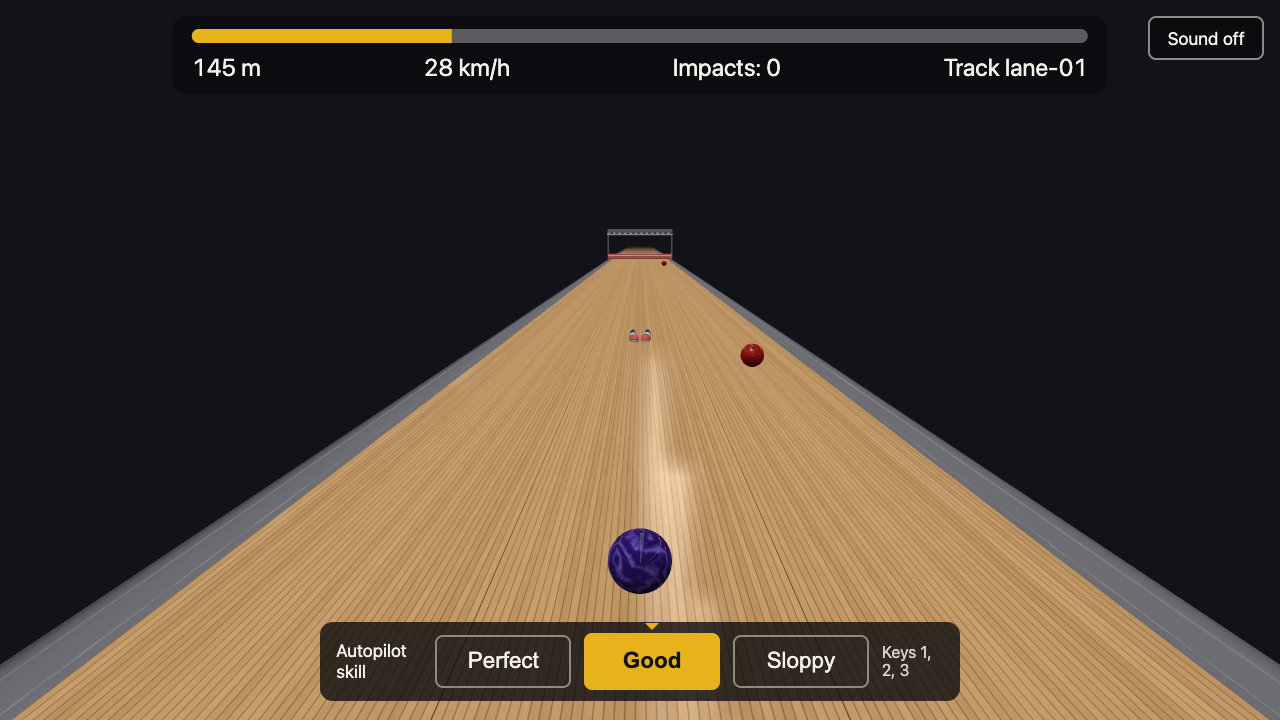
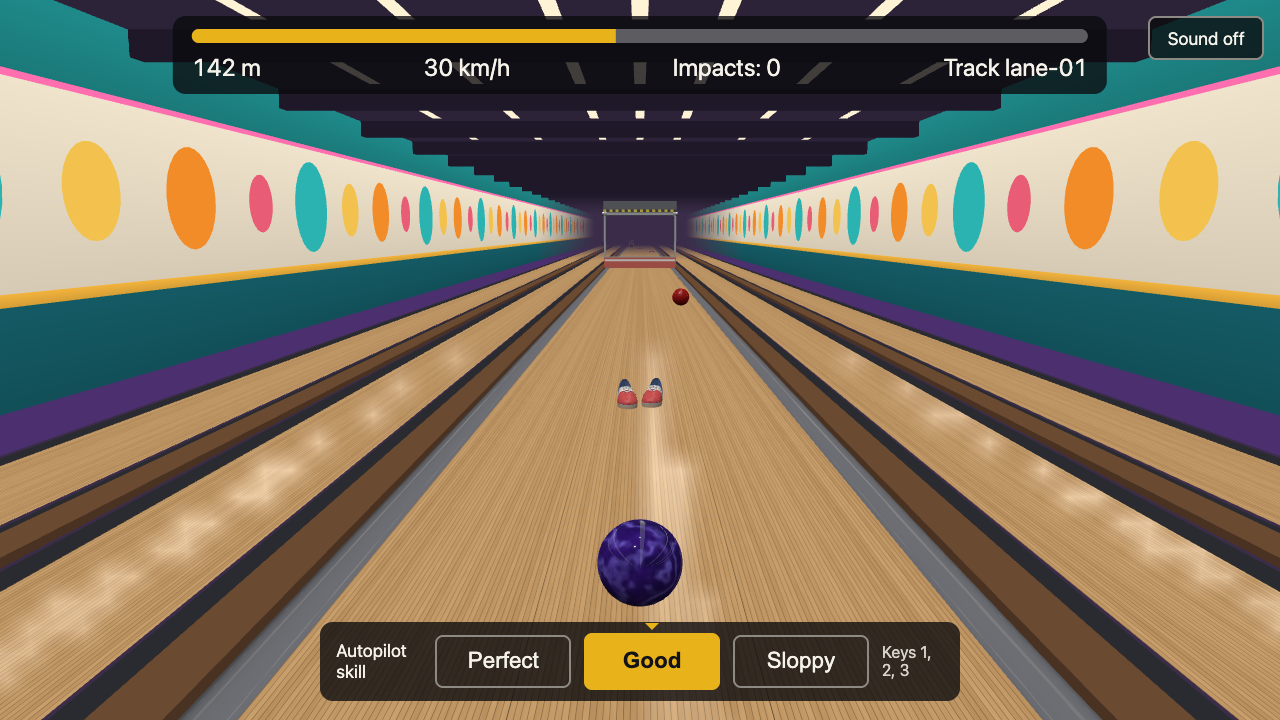
Close the second round of requests: rounds, the skills record, README and changelog
The pages changed by the twice-life-size props, the alley, the music and the impact cost are
built again with their rounds; the skills record keeps the deck sweep and the three campaigns
that led to one-sided aim errors. The README describes the alley and shows a new shot; review.md
says where to resume and what waits for a human.

diff --git a/game/src/config/render.ts b/game/src/config/render.ts
@@ -2,8 +2,9 @@
  * Render budgets checked by the headless gate (wiki/pilot/headless-runs.md, rule 3).
  *
  * Active meshes: the peak measured on the five committed tracks was 174 (500 m lane,
- * wiki/records/pilot-vs-blind-20261027.md; 300 m lane, wiki/records/pilot-vs-blind-300m-20261027.md);
- * the budget leaves ≈ 40 % headroom over it, so a new
+ * wiki/records/pilot-vs-blind-20261027.md; 300 m lane, wiki/records/pilot-vs-blind-300m-20261027.md),
+ * 190 with the alley drawn (wiki/records/skills-20261027.md); the budget leaves ≈ 30 % headroom
+ * over it, so a new
  * obstacle model or a leak of lane segments fails the gate while ordinary variation does not.
  */
 export const ACTIVE_MESH_BUDGET = 250;

diff --git a/wiki/index.md b/wiki/index.md
@@ -11,22 +11,22 @@ once the script exists.
 4. [method/stats.md](method/stats.md) — Stats — numbers about how the demo was built · `built`
 5. [storybook/catalog.md](storybook/catalog.md) — Storybook catalogue — one story per model · `built`
 6. [tools/shot.md](tools/shot.md) — Shot tool — how an agent looks at its own work · `built`
-7. [models/ball.md](models/ball.md) — Ball — the bowling ball the autopilot rolls · `planned`
-8. [models/lane.md](models/lane.md) — Lane — 300 m of maple, three travel lanes, gutters and pin deck · `planned`
-9. [models/obstacles/rental-shoes.md](models/obstacles/rental-shoes.md) — Rental shoes — a pair of two-tone bowling shoes in one travel lane · `planned`
+7. [models/ball.md](models/ball.md) — Ball — the bowling ball the autopilot rolls · `built`
+8. [models/lane.md](models/lane.md) — Lane — 300 m of maple, three travel lanes, gutters and pin deck · `built`
+9. [models/obstacles/rental-shoes.md](models/obstacles/rental-shoes.md) — Rental shoes — a pair of two-tone bowling shoes in one travel lane · `built`
 10. [models/obstacles/returning-ball.md](models/obstacles/returning-ball.md) — Returning ball — a house ball rolling back up the lane · `built`
-11. [models/obstacles/sweep-bar.md](models/obstacles/sweep-bar.md) — Sweep bar — the pinsetter's rake across all three travel lanes · `planned`
+11. [models/obstacles/sweep-bar.md](models/obstacles/sweep-bar.md) — Sweep bar — the pinsetter's rake across all three travel lanes · `built`
 12. [models/obstacles/widening-gutter.md](models/obstacles/widening-gutter.md) — Widening gutter — the gutter eats one travel lane for a stretch · `built`
-13. [models/pins.md](models/pins.md) — Pins — the ten regulation pins · `planned`
+13. [models/pins.md](models/pins.md) — Pins — the ten regulation pins · `built`
 14. [models/obstacles/stray-pins.md](models/obstacles/stray-pins.md) — Stray pins — a group of pins left standing in one travel lane · `built`
 15. [track/track-format.md](track/track-format.md) — Track format — the lane as a JSON file, its bake and its gate · `built`
-16. [game/run.md](game/run.md) — Run — the ball's 300 m, from foul line to pin deck · `planned`
-17. [game/camera.md](game/camera.md) — Camera — chase, impact view and slow motion · `planned`
-18. [game/impacts.md](game/impacts.md) — Impacts — what an obstacle costs · `planned`
-19. [game/pins.md](game/pins.md) — Pins physics — the strike, and the score · `planned`
-20. [pilot/autopilot.md](pilot/autopilot.md) — Autopilot — the only player, and its three skill profiles · `planned`
+16. [game/run.md](game/run.md) — Run — the ball's 300 m, from foul line to pin deck · `built`
+17. [game/camera.md](game/camera.md) — Camera — chase, impact view and slow motion · `built`
+18. [game/impacts.md](game/impacts.md) — Impacts — what an obstacle costs · `built`
+19. [game/pins.md](game/pins.md) — Pins physics — the strike, and the score · `built`
+20. [pilot/autopilot.md](pilot/autopilot.md) — Autopilot — the only player, and its three skill profiles · `built`
 21. [game/hud.md](game/hud.md) — HUD — run information, skill buttons, end screen · `built`
-22. [audio/sounds.md](audio/sounds.md) — Sounds — generated from numbers, played by the audio engine · `planned`
+22. [audio/sounds.md](audio/sounds.md) — Sounds — generated from numbers, played by the audio engine · `built`
 23. [pilot/headless-runs.md](pilot/headless-runs.md) — Headless runs — the tester that never gets tired · `built`
 24. [release/open-source.md](release/open-source.md) — Open-source release — ready to hand to the audience · `built`
 
@@ -45,3 +45,4 @@ once the script exists.
 - [records/deck-tests-300m-20261027.md](records/deck-tests-300m-20261027.md) — Deck tests on the 300 m lane — pocket and off-pocket pins down in Havok
 - [records/pilot-vs-blind-20261027.md](records/pilot-vs-blind-20261027.md) — Pilot vs blind — 5 tracks, three skills and the blind baseline in the browser
 - [records/pilot-vs-blind-300m-20261027.md](records/pilot-vs-blind-300m-20261027.md) — Pilot vs blind on the 300 m lane — three skills and the blind baseline in the browser
+- [records/skills-20261027.md](records/skills-20261027.md) — Skills that show — what an impact costs at twice life size, and three campaigns to tune it

diff --git a/wiki/records/skills-20261027.md b/wiki/records/skills-20261027.md
@@ -1,0 +1,72 @@
+---
+title: Skills that show — what an impact costs at twice life size, and three campaigns to tune it
+type: record
+verified: 2026-10-27
+---
+
+# Skills that show — 2026-10-27
+
+> Boundary: the measurements behind the human's request that the skills differ visibly
+> ([impacts](../game/impacts.md) rule 2, [autopilot](../pilot/autopilot.md) rule 5,
+> [run](../game/run.md) rule 3), with the props at twice life size. NOT covered: the deck criteria
+> themselves (their tests are in [pins physics](../game/pins.md)); the earlier campaign on the
+> 300 m lane is [pilot vs blind, 300 m](pilot-vs-blind-300m-20261027.md).
+
+## What was measured, where
+
+- Code: commit `3467546` («Make the skills show…»), on top of the twice-life-size props
+  (`726b79b`) and the alley (`1ac9d70`).
+- Environment: Vitest 3.2.7 with Babylon.js 9.32.0 `NullEngine` and Havok 1.3.14 WASM in Node
+  26.0.0 for the deck sweep; headless Chromium 156 (Playwright 1.64.1, WebGL on SwiftShader) on the
+  Vite 7.3.7 dev server for the campaigns; macOS 27.0.1, Apple arm64.
+- Deck sweep: `simulateDeck` (the deck tests' harness) with the ball handed over at the pocket plus
+  an offset `d`, rolling, no other error; a throw-away test, not committed.
+- Campaigns: `npm run pilot -- --tracks all --skill <s> --runs 3` for perfect, good and sloppy, and
+  `--blind`; three seeds per track (the track's, 1 and 2), `speedup=60`. 60 runs each.
+
+## Results
+
+**Where a ball strikes.** Pins down against the offset from the pocket at 12 m/s (left negative):
+
+| d (m) | −1.6 | −1.2 | −0.8 | −0.6 | −0.4 | −0.2 | 0 | +0.2 | +0.4 | +0.6 | +0.8 | +1.0 | +1.2 |
+|---|---|---|---|---|---|---|---|---|---|---|---|---|---|
+| pins | 0 | 5 | 3 | 7 | 9 | 10 | 10 | 8 | 6 | 3 | 8 | 1 | 0 |
+
+At 9 m/s the curve is the same within one pin. A twice-life-size ball and deck strike anywhere
+from 0.3 m left to 0.1 m right of the pocket; speed hardly matters.
+
+**Campaign 1** (loss 0.4, recovery 0.5 m/s², aim ± 0.24 m random side, ignore good 0.25 / sloppy
+0.55): pins perfect 10.0, good 9.4, sloppy 8.7 — sloppy still struck 8 of 15. **Campaign 2** (aim
+± 0.5 m random side, sloppy 0.70): good 8.7, sloppy 8.3 with 2.7 impacts a run and 10 strikes in
+15 — errors of a random side cancel out. **Campaign 3**, the values now in the spec (each impact
+pushes 0.3–0.6 m, always to the side drawn once per run). Impacts / pins down, three runs each:
+
+| Track | perfect | good | sloppy | blind |
+|---|---|---|---|---|
+| lane-01 | 0/10 · 0/10 · 0/10 | 1/3 · 1/6 · 1/3 | 3/0 · 3/0 · 3/0 | 1/6 · 3/0 · 6/0 |
+| lane-02 | 0/10 · 0/10 · 0/10 | 2/5 · 1/7 · 2/5 | 3/1 · 3/1 · 4/0 | 6/0 · 5/0 · 7/0 |
+| lane-03 | 0/10 · 0/10 · 0/10 | 1/9 · 1/9 · 0/10 | 2/3 · 2/3 · 2/3 | 3/0 · 4/0 · 4/0 |
+| lane-04 | 0/10 · 0/10 · 0/10 | 0/10 · 1/10 · 1/7 | 1/8 · 2/3 · 2/6 | 6/0 · 3/0 · 5/0 |
+| lane-05 | 0/10 · 0/10 · 0/10 | 0/10 · 1/10 · 2/6 | 4/0 · 2/9 · 4/0 | 4/0 · 1/9 · 2/10 |
+| **average** | **0.0 / 10.0** | **1.0 / 7.3** | **2.7 / 2.5** | **4.0 / 1.7** |
+
+- Strikes: perfect 15 of 15, good 5, sloppy 0, blind 1. Zero pins: sloppy 6, blind 12.
+- Speed at the hand-over: perfect 12.0, good 11.9, sloppy 11.2, blind 9.9 m/s (averages).
+- Rolling time: perfect 40.0 s, good 40.0–43.5 s, sloppy 42.5–48.9 s, blind 41.5–55.3 s.
+- All 60 runs reached the result, 0 console errors; browser and `simulateRun` agree on impacts in
+  45 of 45 pilot runs. Peak active meshes 190 (budget 250), with the alley drawn.
+
+## Reading
+
+The three skills now end far apart — a strike, a handful of pins, almost nothing — and the run
+itself shows why: one impact against two or three, a slower ball, a longer run. The lever was not
+the size of the aim error but its direction: random-side errors cancel, so a sloppy run struck as
+often as a good one until every impact of a run pushed the same way. Sloppy is now close to the
+blind baseline in pins (2.5 against 1.7) while hitting far fewer obstacles (2.7 against 4.0); a
+human may find it too harsh.
+
+## Scope
+
+Three seeds per track, one machine, one software renderer (frame times are not meaningful here).
+The aim side is drawn from the track seed, so every run of a track misses to the same side. Not
+tried: other speeds at the deck, entry angles, real GPUs.

diff --git a/wiki/game/impacts.md b/wiki/game/impacts.md
@@ -1,7 +1,7 @@
 ---
 title: Impacts — what an obstacle costs
 type: spec
-status: planned
+status: built
 depends_on: [game/run.md, models/obstacles/stray-pins.md, models/obstacles/returning-ball.md, models/obstacles/rental-shoes.md, models/obstacles/sweep-bar.md, models/obstacles/widening-gutter.md]
 canonical: [game/src/config/impacts.ts, game/src/domain/impacts/, game/src/domain/simulation.ts, game/src/scene/views/knock-away.ts, game/src/scene/views/obstacle-view.ts, game/src/scene/physics/]
 verified: 2026-10-27
@@ -28,9 +28,12 @@ pins, because it costs speed and aim.
    - speed is multiplied by `1 − IMPACT_SPEED_LOSS` (0.4), then recovers at the run's `ACCEL_MPS2`
      (0.5 m/s², [run](run.md)), slowly enough that an impact in the last ≈ 100 m still reaches the
      pins slower;
-   - the aim error grows by a seeded uniform value in ±`IMPACT_AIM_ERROR_M` (0.24 m: 0.12 m at
-     regulation size, the distance that moves a pocket hit to the Brooklyn side or the split zone,
-     × `PROP_SCALE`), applied to the ball's `x` when it reaches the pin deck;
+   - the aim error grows by a seeded value between `IMPACT_AIM_ERROR_MIN_M` and `IMPACT_AIM_ERROR_M`
+     (0.3–0.6 m: 0.15–0.3 m at regulation size × `PROP_SCALE`), always to the same side within a
+     run (the side drawn once from the track seed), so impacts add up instead of cancelling; it is
+     applied to the ball's `x` when it reaches the pin deck. At this scale a ball strikes from
+     0.3 m left to 0.1 m right of the pocket ([skills record](../records/skills-20261027.md)), so one
+     impact leaves a split or a few pins, two or three leave little or a gutter;
    - the impact count grows by one, and an impact event is emitted (for the scene and the audio).
 3. **Widening gutter:** a ball inside its lane and range counts one impact and is steered to the
    nearest free adjacent lane by a forced lane change.
@@ -80,6 +83,16 @@ pins, because it costs speed and aim.
   jumpable, but rule 1 only compared heights. Now `JUMPABLE_KINDS` (`config/impacts.ts`: rental
   shoes and sweep bar) decides: any other obstacle is hit at any height. New unit test; perfect
   still has 0 impacts on every track.
+- 2026-10-27 · round 4 · The human asked that the skills differ visibly and authorised rewriting
+  criterion 2. Speed loss 0.25 → 0.4, recovery at the run's 0.5 m/s². The aim error took three
+  campaigns ([skills record](../records/skills-20261027.md)): ± 0.24 m and then ± 0.5 m, of a random
+  side each time, changed little — sloppy still struck 10 runs in 15, because errors of opposite
+  sides cancel. A deck sweep showed why the size alone could not do it: at twice life size the ball
+  strikes anywhere from 0.3 m left to 0.1 m right of the pocket. Now each impact pushes 0.3–0.6 m
+  to the side drawn once per run (`aimSideOf`), so impacts add up: perfect 10 pins, good 7.3,
+  sloppy 2.5, blind 1.7 over 60 browser runs. Unit tests: criterion 2 as rewritten (12 → 7.2 m/s,
+  +0.5 m/s in one second, back to the target), the same side and bounds for every impact of a run,
+  criterion 3 unchanged. Left for the human: sloppy is close to blind in pins.
 
 ## Canonical files
 

diff --git a/wiki/models/lane.md b/wiki/models/lane.md
@@ -1,9 +1,9 @@
 ---
 title: Lane — 300 m of maple, three travel lanes, gutters and pin deck
 type: spec
-status: planned
+status: built
 depends_on: [storybook/catalog.md, tools/shot.md]
-canonical: [models/src/measures/lane.ts, models/src/lane/, storybook/src/stories/lane-segment.stories.tsx, storybook/src/stories/pin-deck.stories.tsx, storybook/src/scenes/pin-deck-scene.ts]
+canonical: [models/src/measures/lane.ts, models/src/measures/alley.ts, models/src/lane/, models/src/alley/, storybook/src/stories/alley-segment.stories.tsx, storybook/src/stories/lane-segment.stories.tsx, storybook/src/stories/pin-deck.stories.tsx, storybook/src/scenes/pin-deck-scene.ts]
 verified: 2026-10-27
 ---
 
@@ -88,6 +88,20 @@ to render for its whole length.
   that says it; the scene now draws 15 segments, the last with the regulation markings ending at the
   head pin. Unit tests unchanged and green; the 300 m campaign
   ([record](../records/pilot-vs-blind-300m-20261027.md)) ran on it.
+- 2026-10-27 · round 4 · Props twice life size: the deck's margins, pit, wall and spotlight are
+  sized for the pins, × `PROP_SCALE`; the lane itself is unchanged. Rule 6, the alley:
+  `createAlleySegment` (`models/src/alley/`, measures in `measures/alley.ts`) builds a 20 m segment
+  in two meshes — the four neighbouring lanes' boards with the lane's material (one lane's third of
+  the board texture each), and a single unlit vertex-coloured mesh for cappings, neighbouring
+  gutters, purple carpet, teal-and-cream walls with orange, pink, teal and mustard discs, a pink
+  neon line, the ceiling with a beam every 5 m and a warm light strip over every lane. The scene
+  recycles it with the lane segments (`segment-window.ts`, shared by both views), one segment past
+  the head pin; the masking wall now spans the room and reaches the ceiling. Shots: at 140 m the
+  first try showed the neighbouring boards black — their quads faced down; winding flipped. At 0 m,
+  140 m and 295 m the frame has no black left: walls, ceiling, the far end fades into purple haze.
+  Story `models-alley-segment` reaches ready; unit tests: wall to wall, floor to ceiling, two
+  meshes, instancing shares geometry. Rule 6 has no acceptance criterion yet: a proposal is in
+  [review](../review.md) «To judge».
 
 ## Canonical files
 

diff --git a/wiki/pilot/autopilot.md b/wiki/pilot/autopilot.md
@@ -1,7 +1,7 @@
 ---
 title: Autopilot — the only player, and its three skill profiles
 type: spec
-status: planned
+status: built
 depends_on: [game/impacts.md, game/pins.md]
 canonical: [game/src/config/pilot.ts, game/src/pilot/, game/src/domain/deck/hand-off.ts]
 verified: 2026-10-27
@@ -45,10 +45,10 @@ be lowered on stage, so the audience sees impacts turn into fewer pins.
    |---|---|---|
    | `perfect` | 1.0 s | 0 |
    | `good` | 0.6 s | 0.25 |
-   | `sloppy` | 0.35 s | 0.55 |
+   | `sloppy` | 0.35 s | 0.70 |
 
    The chances to ignore were 0.10 and 0.30; a human asked on 2026-10-27 that the skills differ
-   visibly, so `good` now hits about one obstacle in four and `sloppy` about one in two.
+   visibly, so `good` now ignores about one obstacle in four and `sloppy` more than two in three.
 
    The ignore draw happens once per obstacle, when it is first noticed, from the seeded source
    keyed by the obstacle's index: same track, seed and skill changes → same run. Changing skill
@@ -100,6 +100,12 @@ be lowered on stage, so the audience sees impacts turn into fewer pins.
   `check-boundaries` stopped a pilot test importing `node:fs`; test files may now import `node:`
   built-ins. 1 shot. For the human: impacts cost few pins (sloppy 10 vs perfect 9 on lane-01) —
   see the [headless runs](headless-runs.md) record before judging.
+- 2026-10-27 · round 4 · Rule 5: good ignores 0.25 of the obstacles it notices, sloppy 0.70
+  (were 0.10 and 0.30); sloppy's notice time stays at the track gate's 0.35 s. Criteria 2 and 3:
+  perfect has 0 impacts and the centre lane at the hand-over on every track, sloppy 2.7 impacts a
+  run, the same summary twice; tests green. Browser campaign: good 1.0 impacts and 7.3 pins, sloppy
+  2.7 and 2.5 ([skills record](../records/skills-20261027.md)). For the human (criterion 5): sloppy
+  now misses often enough to look careless rather than unlucky.
 
 ## Canonical files
 

diff --git a/wiki/review.md b/wiki/review.md
@@ -14,6 +14,14 @@ with the date.
 
 ## Where to resume
 
+- 2026-10-27, third pass — The human's second round of requests is built: props at twice life
+  size ([conventions](models/conventions.md)), the alley around the lane ([lane](models/lane.md)
+  rule 6), happier music ([sounds](audio/sounds.md) rule 6) and skills that show
+  ([impacts](game/impacts.md), [autopilot](pilot/autopilot.md);
+  [skills record](records/skills-20261027.md): perfect 10, good 7.3, sloppy 2.5, blind 1.7). Every
+  spec page is `built`, none `approved`. For the human, in «To judge»: whether to accept the
+  proposed criteria for the alley and the music, and whether sloppy is now too close to blind. To
+  look at with eyes and ears: the alley from a projector, the music on speakers, a sloppy run.
 - 2026-10-27, later — After the human's review: the lane is 300 m and a clean run lasts 40 s (run
   and camera criteria rewritten and re-locked on the human's authorization), the black canvas on
   WebGPU browsers is fixed (`check-webgl`), and background music plays (sounds rule 6). All 24
@@ -62,7 +70,7 @@ the agent recommends.
   little, still not enough to be seen from the back of a room; the recommendation stands.
   Update of 2026-10-27: the human asked that the skills differ visibly and authorised the change of
   impacts criterion 2. The spec now carries the speed loss to the pins (0.4 loss, recovery at
-  0.5 m/s²), a larger aim error (0.12 m at regulation size) and more ignored obstacles for `good`
+  0.5 m/s²), a larger aim error (0.25 m at regulation size) and more ignored obstacles for `good`
   and `sloppy`; the next record measures whether the pins show it. A human closes this entry.
 - 2026-10-27 · [sounds](audio/sounds.md) rule 6 (music) · The human asked for background music;
   it is built as rule 6, but no acceptance criterion covers it (only a human writes criteria).

diff --git a/README.md b/README.md
@@ -3,11 +3,14 @@
 A bowling ball rolls by itself down a 300 m lane full of obstacles and ends against ten pins. Nobody
 plays: an autopilot reads the lane and drives the ball — it changes lane, jumps the sweep bar,
 dodges a house ball rolling back towards it — and you can only tell it how well to drive. Lower its
-skill and it starts hitting things; at the end the pins fall in slow motion and the score appears. A run lasts forty seconds, over a
-quiet groove generated, like every sound here, from numbers.
+skill and it starts hitting things, and the pins show it; at the end they fall in slow motion and
+the score appears. A run lasts forty seconds, in a retro alley built from code, over a cheerful
+groove generated, like every sound here, from numbers. The ball, the pins and the obstacles are
+twice life size, so they read from the back of a room.
 
-![The ball rolling down lane-01, a returning house ball and a pair of rental shoes ahead, the run
-information at the top and the three skill buttons at the bottom](docs/screenshot.png)
+![The ball rolling down lane-01 between neighbouring lanes and mural walls under a lit ceiling, a
+pair of rental shoes and a returning house ball ahead, the run information at the top and the three
+skill buttons at the bottom](docs/screenshot.png)
 
 **The game is the excuse.** This repository shows a way of building software with AI agents: a wiki
 that is the specification and that the agent must read before acting, a loop in which the agent

diff --git a/wiki/models/ball.md b/wiki/models/ball.md
@@ -1,9 +1,9 @@
 ---
 title: Ball — the bowling ball the autopilot rolls
 type: spec
-status: planned
+status: built
 depends_on: [storybook/catalog.md, tools/shot.md]
-canonical: [models/src/measures/ball.ts, models/src/ball/, models/src/procedural/, models/src/materials/scene-cache.ts, storybook/src/stories/ball.stories.tsx, storybook/src/stories/ball-house.stories.tsx]
+canonical: [models/src/measures/scale.ts, models/src/measures/ball.ts, models/src/ball/, models/src/procedural/, models/src/materials/scene-cache.ts, storybook/src/stories/ball.stories.tsx, storybook/src/stories/ball-house.stories.tsx]
 verified: 2026-10-27
 ---
 
@@ -70,6 +70,12 @@ immediately as a real bowling ball.
   reflections; the house ball is plain scuffed red with «16» beside the grip. Unit tests:
   diameter within ±2 mm on three axes for both variants, ≥ 3 separate recesses, lowest point at
   y = 0. Stories ready in 2.2 s and 1.6 s.
+- 2026-10-27 · round 3 · Twice life size ([conventions](conventions.md)): `measures/ball.ts` keeps
+  the regulation 0.218 m and 7.26 kg and exports them × `PROP_SCALE` (0.436 m) and × `PROP_SCALE`³
+  (58.08 kg); finger holes and the hole rim scale too. Unit tests unchanged and green (they compare
+  with the measure). `measures/scale.ts`, the factor every prop shares, is listed here, the first
+  prop in build order. Shots in the game at 140 m and 250 m: the ball reads twice as big against the
+  boards, the holes still readable.
 
 ## Canonical files
 

diff --git a/wiki/game/pins.md b/wiki/game/pins.md
@@ -1,7 +1,7 @@
 ---
 title: Pins physics — the strike, and the score
 type: spec
-status: planned
+status: built
 depends_on: [game/impacts.md, models/pins.md]
 canonical: [game/src/config/pins.ts, game/src/config/physics.ts, game/src/domain/scoring/, game/src/domain/deck/, game/src/app/deck-port.ts, game/src/app/deck-step.ts, game/src/scene/physics/, game/src/scene/views/pins-view.ts, models/src/measures/lane.ts]
 verified: 2026-10-27
@@ -99,6 +99,13 @@ Havok decides how many pins fall.
 - 2026-10-27 · round 3 · Lane at 300 m: deck tests unchanged and green — pocket 9, off-pocket 2 —
   [deck tests, 300 m](../records/deck-tests-300m-20261027.md). In the browser the same pocket hit
   now strikes (the hand-over lands a fraction of a step later), which shows how sensitive one hit is.
+- 2026-10-27 · round 4 · Props twice life size: ball 58 kg, pins 12 kg and 0.76 m, the pocket
+  2.5 boards × `PROP_SCALE` off the head pin, the centre of mass at 38 % of the pin's height, the
+  deck, pit and wall grown with them. Criterion 1 rewritten on the human's authorisation (moved
+  0.2 m × `PROP_SCALE` → down); test green. Deck tests: pocket **10** down (was 9), 0.5 m to the
+  side 5, deterministic; slow motion neutral. A sweep of the hand-over offset is in the
+  [skills record](../records/skills-20261027.md): strikes from 0.3 m left to 0.1 m right of the
+  pocket, speed hardly matters.
 
 ## Canonical files
 

diff --git a/wiki/game/run.md b/wiki/game/run.md
@@ -1,7 +1,7 @@
 ---
 title: Run — the ball's 300 m, from foul line to pin deck
 type: spec
-status: planned
+status: built
 depends_on: [track/track-format.md, models/ball.md, models/lane.md]
 canonical: [game/src/config/run.ts, game/src/config/loop.ts, game/src/config/scene.ts, game/src/domain/run/, game/src/app/, game/src/dev/test-hook.ts, game/src/scene/, game/src/ui/App.tsx, game/src/ui/ErrorScreen.tsx, game/src/ui/use-game-session.ts, game/src/i18n/]
 verified: 2026-10-27
@@ -104,6 +104,12 @@ and jumping when the autopilot says so.
   «stay» test now measures 40.0 s; a test that sampled 469.9 m moved to 269.9 m. Shots: the 250 m
   criterion passes (5/5 centre pixels against the fog). The browser campaign: every run rolls
   40.0–41.2 s ([record](../records/pilot-vs-blind-300m-20261027.md)).
+- 2026-10-27 · round 5 · Rule 3: `ACCEL_MPS2` 1.5 → 0.5 m/s², above the 0.38 m/s² a clean run
+  asks of it at 12 m/s, so a clean run is unchanged (the «stay» test still measures 40.0 s) while a
+  ball slowed by an impact recovers over ≈ 10 s. Rule 5: `JUMP_APEX_M` = 0.5 m × `PROP_SCALE`, so
+  the jump clears the twice-life-size shoes (0.24 m) and sweep bar (≈ 0.61 m). The scene draws the
+  alley around the lane (`views/alley-view.ts`, `views/segment-window.ts`). Unit tests green;
+  shots at 0, 140, 250 and 295 m show the ball, the obstacles, the alley and the deck.
 
 ## Canonical files
 

diff --git a/CHANGELOG.md b/CHANGELOG.md
@@ -5,6 +5,21 @@ this file keeps what was done and when. Every page was built and closed inside o
 handoff was opened ([`handoffs/`](handoffs/README.md)); each entry points to the page whose
 «Rounds» section holds the details.
 
+## Second round of human requests — 2026-10-27
+
+The human found the props tiny on the long lane, the scene a black void, the music too slow and the
+skills too alike. Spec first, then one commit per change:
+
+- **Props at twice life size** ([conventions](wiki/models/conventions.md)) — ball, pins, obstacles and
+  deck × `PROP_SCALE` on the regulation lane; the camera follows; the pocket ball now strikes in
+  the deck test.
+- **The alley** ([lane](wiki/models/lane.md), rule 6) — neighbouring lanes, mural walls, a ceiling
+  with beams and light strips, a purple haze instead of black; two meshes per recycled segment.
+- **Happier music** ([sounds](wiki/audio/sounds.md)) — eight bars in C major at 126 BPM.
+- **Skills that show** ([impacts](wiki/game/impacts.md), [autopilot](wiki/pilot/autopilot.md)) — an
+  impact costs 40 % of the speed, recovered at 0.5 m/s², and up to 0.5 m of aim; `good` and
+  `sloppy` ignore more obstacles. Measured in the [skills record](wiki/records/skills-20261027.md).
+
 ## Build session — 2026-10-26 / 2026-10-27
 
 One agent session (Claude Opus 5.5) ran [`BUILD.md`](BUILD.md) from round zero, one page at a
